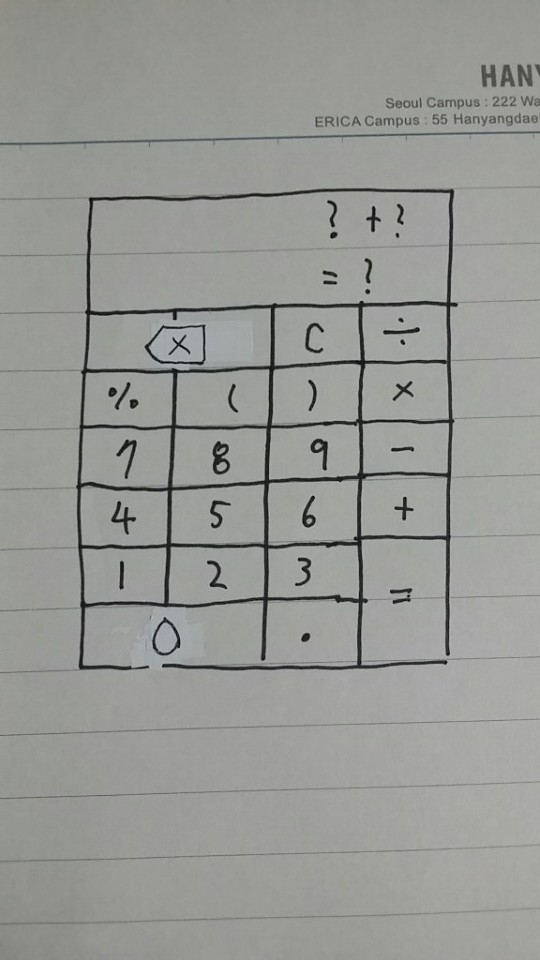
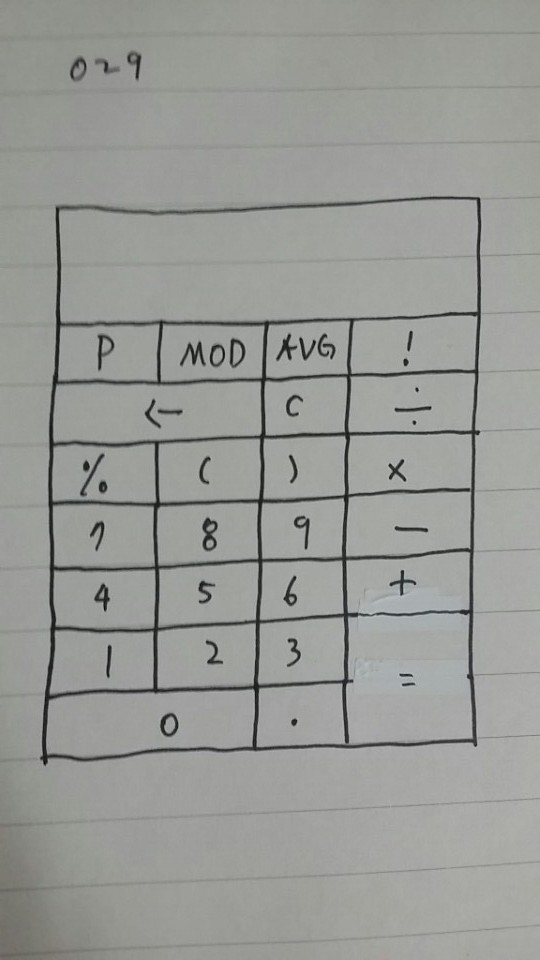
Merge branch 'master' into hellogaon

diff --git a/calculator.java b/calculator.java
@@ -1,0 +1,133 @@
+/**
+ * Created by HB on 2016. 11. 13..
+ */
+
+// v0.1
+
+import javax.swing.*;
+import java.awt.*;
+import java.awt.event.*;
+import java.util.*;
+
+public class calculator extends JFrame {
+
+    JPanel panel;
+    JButton [] num_btn = new JButton[10];
+    JButton Primebtn, MODbtn, AVGbtn, factorialbtn, deletebtn, clearbtn,
+        dividebtn, multiplebtn, percentbtn, leftbracketbtn, rightbracketbtn,
+        minusbtn, plusbtn, equalbtn, dotbtn;
+    JTextField textField, textField2;
+
+
+    // 생성자
+    public calculator() {
+        setTitle("Serious");
+        setSize(320, 560);       // size
+        setDefaultCloseOperation(JFrame.EXIT_ON_CLOSE);
+
+        // 레이아웃 설정
+        setLayout(null);
+//        JLayeredPane layeredPane = new JLayeredPane();
+//        layeredPane.setBounds(0, 0, 320, 540);
+//        layeredPane.setLayout(null);
+
+        // 패널 설정
+        panel = new JPanel();
+        panel.setLayout(null); //패널의 Layout을 NULL
+        panel.setBounds(0, 0, 320, 560); //패널의 크기 및 위치 지정 (x,y로 부터 넓이(width, 높이(height))
+
+        // 텍스트 필드 설정
+
+        textField = new JTextField("");
+        textField2 = new JTextField("");
+
+        textField.setHorizontalAlignment(JTextField.RIGHT);   // 우측정렬
+        textField.setEditable(false); 		// 텍스트필드창에 텍스트쓰지못하게 잠금
+
+        textField2.setHorizontalAlignment(JTextField.RIGHT);   // 우측정렬
+        textField2.setEditable(false); 		// 텍스트필드창에 텍스트쓰지못하게 잠금
+
+        textField.setBounds(0,0,320,60);
+        textField2.setBounds(0,60,320,60);
+
+        panel.add(textField);
+        panel.add(textField2);
+
+        // 버튼 설정
+        for (int i=0; i<10; i++)
+            num_btn[i] = new JButton(String.valueOf(i));
+        Primebtn = new JButton("P");
+        MODbtn = new JButton("MOD");
+        AVGbtn = new JButton("AVG");
+        factorialbtn = new JButton("!");
+        deletebtn = new JButton("<-");
+        clearbtn = new JButton("C");
+        dividebtn = new JButton("/");
+        multiplebtn = new JButton("x");
+        percentbtn = new JButton("%");
+        leftbracketbtn = new JButton("(");
+        rightbracketbtn = new JButton(")");
+        minusbtn = new JButton("-");
+        plusbtn = new JButton("+");
+        equalbtn = new JButton("=");
+        dotbtn = new JButton(".");
+
+        // 버튼 배열
+        num_btn[0].setBounds(0,480,160,60);
+        num_btn[7].setBounds(0,300,80,60);
+        num_btn[8].setBounds(80,300,80,60);
+        num_btn[9].setBounds(160,300,80,60);
+        num_btn[4].setBounds(0,360,80,60);
+        num_btn[5].setBounds(80,360,80,60);
+        num_btn[6].setBounds(160,360,80,60);
+        num_btn[1].setBounds(0,420,80,60);
+        num_btn[2].setBounds(80,420,80,60);
+        num_btn[3].setBounds(160,420,80,60);
+
+        for (int i=0; i<10; i++)
+            panel.add(num_btn[i]);
+
+        dotbtn.setBounds(160,480,80,60);
+        equalbtn.setBounds(240,420,80,120);
+        plusbtn.setBounds(240,360,80,60);
+        minusbtn.setBounds(240,300,80,60);
+        percentbtn.setBounds(0,240,80,60);
+        leftbracketbtn.setBounds(80,240,80,60);
+        rightbracketbtn.setBounds(160,240,80,60);
+        multiplebtn.setBounds(240,240,80,60);
+        deletebtn.setBounds(0,180,160,60);
+        clearbtn.setBounds(160,180,80,60);
+        dividebtn.setBounds(240,180,80,60);
+        Primebtn.setBounds(0,120,80,60);
+        MODbtn.setBounds(80,120,80,60);
+        AVGbtn.setBounds(160,120,80,60);
+        factorialbtn.setBounds(240,120,80,60);
+
+        panel.add(dotbtn);
+        panel.add(equalbtn);
+        panel.add(plusbtn);
+        panel.add(minusbtn);
+        panel.add(percentbtn);
+        panel.add(leftbracketbtn);
+        panel.add(rightbracketbtn);
+        panel.add(multiplebtn);
+        panel.add(deletebtn);
+        panel.add(clearbtn);
+        panel.add(dividebtn);
+        panel.add(Primebtn);
+        panel.add(MODbtn);
+        panel.add(AVGbtn);
+        panel.add(factorialbtn);
+
+        add(panel);
+
+        setVisible(true);
+
+    }
+
+
+
+    public static void main(String[] args) {
+        new calculator();
+    }
+}

diff --git a/README.md b/README.md
@@ -5,10 +5,14 @@ is a calculator with a few simple functions, such as plus, minus, times, divided
 
 # **Screenshots**
 
+<<<<<<< HEAD
 =======
 # **Function**
 --------------
 >>>>>>> Stashed changes
+=======
+![](http://imageshack.com/a/img923/6936/pLL3oX.png "")
+>>>>>>> master
 
 # **Standard Function**
 
@@ -41,6 +45,7 @@ To compile Serious, downloads Serious.class and open.
 
 To report bugs, please create a GitHub issue.  
 Email : gusqja8753@gmail.com
+<<<<<<< HEAD
 
 
 
@@ -51,3 +56,5 @@ Email : gusqja8753@gmail.com
 =======
 Email : gusqja8753@gmail.com
 >>>>>>> Stashed changes
+=======
+>>>>>>> master
